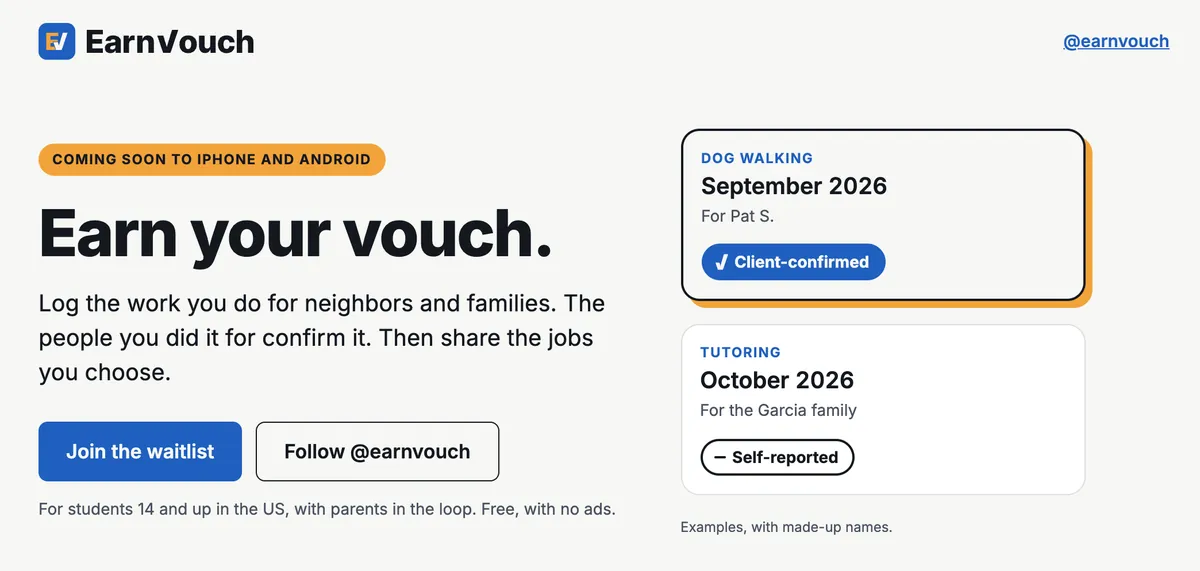
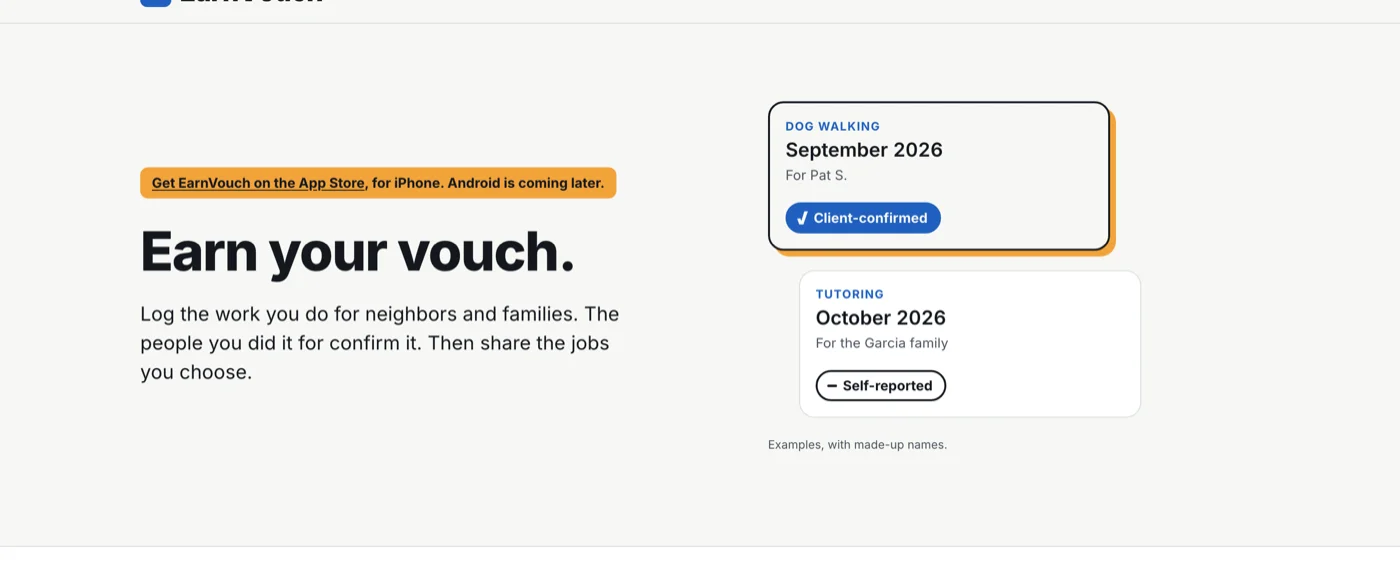
EarnVouch is live on the App Store: card text, App Store link, new screenshot

diff --git a/index.html b/index.html
@@ -595,14 +595,14 @@
         </article>
         <article class="project has-media">
           <figure class="media media-natural">
-            <img src="images/earnvouch.webp" alt="The EarnVouch homepage: Earn your vouch, with example job cards marked Client-confirmed and Self-reported, and a Join the waitlist button" width="1200" height="571" loading="lazy" decoding="async">
+            <img src="images/earnvouch.webp" alt="The EarnVouch homepage: Earn your vouch, a Get EarnVouch on the App Store banner, and example job cards marked Client-confirmed and Self-reported" width="1400" height="586" loading="lazy" decoding="async">
           </figure>
           <div class="project-text">
           <span class="when">Oct 2026 to present</span>
           <h3>EarnVouch</h3>
-          <p>A free iOS and Android app I'm building for students 14 to 24 to keep a client-confirmed record of their gig work, which they can share with colleges and employers. I wrote the product spec (more than 200 logged decisions), threat model and data model, then reworked the design after a lawyer reviewed the rules for minors' data. It passed Apple's App Store review on the first submission, about three weeks after the first design work. In development, not launched.</p>
+          <p>A free iPhone app, live on the App Store, for students 14 to 24 to keep a client-confirmed record of their gig work, which they can share with colleges and employers. I wrote the product spec (more than 200 logged decisions), threat model and data model, then reworked the design after a lawyer reviewed the rules for minors' data. It passed Apple's review on the first submission and launched on the App Store in November 2026, about four weeks after the first design work. Android is coming later.</p>
           <div class="tags"><span>React Native</span><span>TypeScript</span><span>PostgreSQL</span><span>Product spec</span></div>
-          <a class="card-link" href="https://earnvouch.com" target="_blank" rel="noopener">earnvouch.com ↗</a>
+          <div style="display:flex;flex-wrap:wrap;gap:0 24px"><a class="card-link" href="https://apps.apple.com/app/id6827317192" target="_blank" rel="noopener">Get it on the App Store ↗</a><a class="card-link" href="https://earnvouch.com" target="_blank" rel="noopener">earnvouch.com ↗</a></div>
           </div>
         </article>
         <article class="project has-media">
